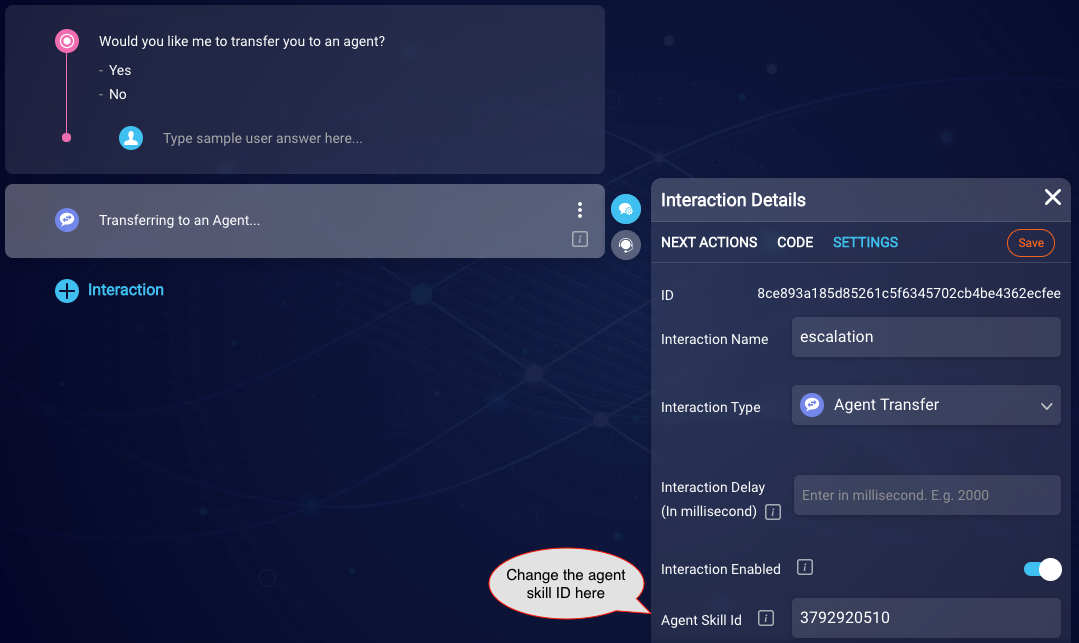
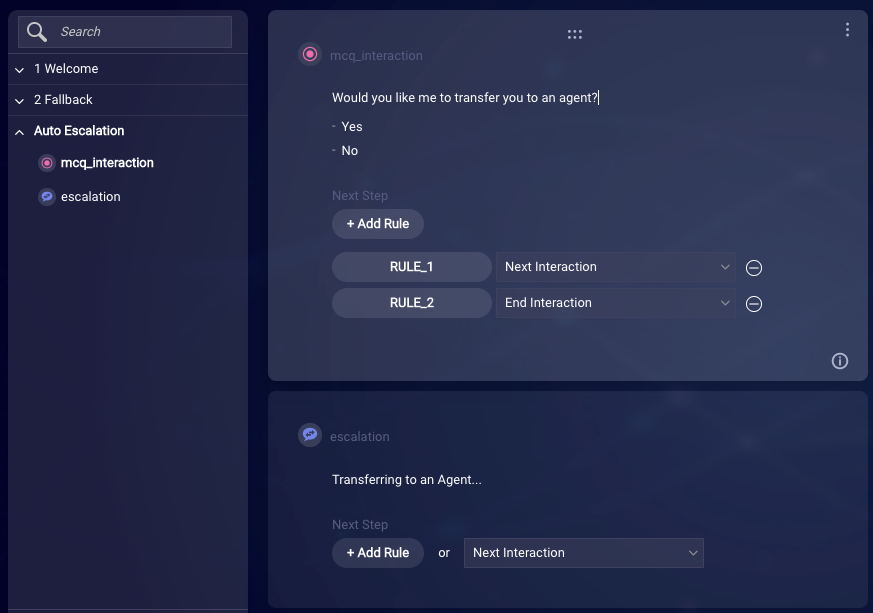
BA-4395 Updates due to Dialog Editor v2.0

diff --git a/pages/documents/ConversationalAI/ConversationBuilder/Dialogs/dialogs.md b/pages/documents/ConversationalAI/ConversationBuilder/Dialogs/dialogs.md
@@ -54,7 +54,7 @@ To disable context switching at the conversation start, you can add this code to
 ### Create a new dialog
 
 1. Open the bot.
-2. Click **+ DIALOG** in the lower-left corner.
+2. Click **New Dialog** in the lower-left corner.
 3. In the dialog that appears, do the following:
     - **Dialog Name**: Enter a descriptive name for the dialog. Use a standard naming convention to make your dialogs more sortable and easier to find.
     - **Dialog Type**: Select the type of dialog; for help with this, see *Dialog types* farther above on this page.
@@ -90,9 +90,9 @@ LP_CLOSECONVERSATION does not trigger a post-conversation survey.
 ### Configure dialog settings
 
 **To configure dialog settings**
-1. Open the bot, and click the down arrow ( <img style="width:25px" src="img/ConvoBuilder/icon_down_caret.png"> ) beside the dialog's name.
+1. In the dialogs panel on the left, click <img style="width:25px" src="img/ConvoBuilder/icon_ellipsis_dialogs.png"> (3-dot icon) beside the dialog's name.
 
-    <img class="fancyimage" style="width:350px" src="img/ConvoBuilder/dialogs_menu.png">
+    <img class="fancyimage" style="width:300px" src="img/ConvoBuilder/dialogs_menu.png">
 
 2. Select **Dialog Settings**.
 3. Click **More Settings** to display all the settings.
@@ -111,7 +111,7 @@ Dialog settings include:
 
 **To disable or enable a dialog**
 
-1. Open the bot, and click the down arrow ( <img style="width:25px" src="img/ConvoBuilder/icon_down_caret.png"> ) beside the dialog's name.
+1. In the dialogs panel on the left, click <img style="width:25px" src="img/ConvoBuilder/icon_ellipsis_dialogs.png"> (3-dot icon) beside the dialog's name.
 
     <img class="fancyimage" style="width:350px" src="img/ConvoBuilder/dialogs_menu.png">
 
@@ -126,7 +126,7 @@ Deleting a dialog is a non-recoverable action, so be certain about doing so befo
 
 **To delete a dialog**
 
-1. Open the bot, and click the down arrow ( <img style="width:25px" src="img/ConvoBuilder/icon_down_caret.png"> ) beside the dialog's name.
+1. In the dialogs panel on the left, click <img style="width:25px" src="img/ConvoBuilder/icon_ellipsis_dialogs.png"> (3-dot icon) beside the dialog's name.
 
     <img class="fancyimage" style="width:350px" src="img/ConvoBuilder/dialogs_menu.png">
 

diff --git a/pages/documents/ConversationalAI/ConversationBuilder/BestPractices/prelaunchChecklist.md b/pages/documents/ConversationalAI/ConversationBuilder/BestPractices/prelaunchChecklist.md
@@ -18,7 +18,7 @@ Test whether you are catching unexpected answers to questions, and, if needed, u
 
 ### Avoid mismatched intents for unhandled use cases
 
-If there are known phrases or patterns for sensitive consumer intents that you aren't handling in the bot on launch day, it's recommended that you create "placeholder" dialogs that catch these specific patterns and immediately transfer to a human agent (i.e., a [LivePerson agent escalation](conversation-builder-integrations-liveperson-agent-escalation-integrations.html)).  Doing this prevents the fallback response or a mismatched intent tied to another dialog.
+If there are known phrases or patterns for sensitive consumer intents that you aren't handling in the bot on launch day, it's recommended that you create "placeholder" dialogs that catch these specific patterns and immediately transfer to a human agent (i.e., an [Agent Transfer interaction](conversation-builder-interactions-integrations.html#agent-transfer-interactions)).  Doing this prevents the fallback response or a mismatched intent tied to another dialog.
 
 For example, "my partner has passed away" relates to bereavement, and in this case the consumer should be transferred to a live agent immediately. For this, create a dialog with a User Says interaction that listens for the pattern `*passed away*` and other variations, and have this immediately transfer to a human agent.
 

diff --git a/pages/documents/ConversationalAI/ConversationBuilder/Dialogs/dialogs_disambiguation.md b/pages/documents/ConversationalAI/ConversationBuilder/Dialogs/dialogs_disambiguation.md
@@ -55,7 +55,7 @@ Once the user selects the correct intent, if that intent is associated with a Us
     - **Additional option to show** (label): This is the label for the "Additional option to show" choice. Enter a value, for example, "None of the above."
 5. Click **Save**.
 6. In the Disambiguation interaction, enter the question text to send to the consumer.
-    <img style="width:800px" src="img/ConvoBuilder/dialogs_disambiguation5.png">
+    <img style="width:600px" src="img/ConvoBuilder/dialogs_disambiguation5.png">
 
     The intents will be dynamically populated, and their labels will be drawn from their intent display names as configured in [Intent Builder](intent-builder-overview.html).
 

diff --git a/pages/documents/ConversationalAI/ConversationBuilder/ScriptingFunctions/Introduction.md b/pages/documents/ConversationalAI/ConversationBuilder/ScriptingFunctions/Introduction.md
@@ -14,7 +14,11 @@ indicator: both
 
 Functions are modules of code that are used for accomplishing a certain task programatically. 
 
-With few exceptions, functions can be used in the [Pre-Process / Post-Process Code](conversation-builder-conversation-builder-interaction-details.html#code) or the [Process User Response](conversation-builder-conversation-builder-interaction-details.html#process-user-response) JavaScript code panels.
+With few exceptions, functions can be used in the following JavaScript [code panels](conversation-builder-interactions-configuration-custom-code.html) in interactions:
+
+* Process User Response
+* Pre-Process Code
+* Post-Process Code
 
 **Note**
 
